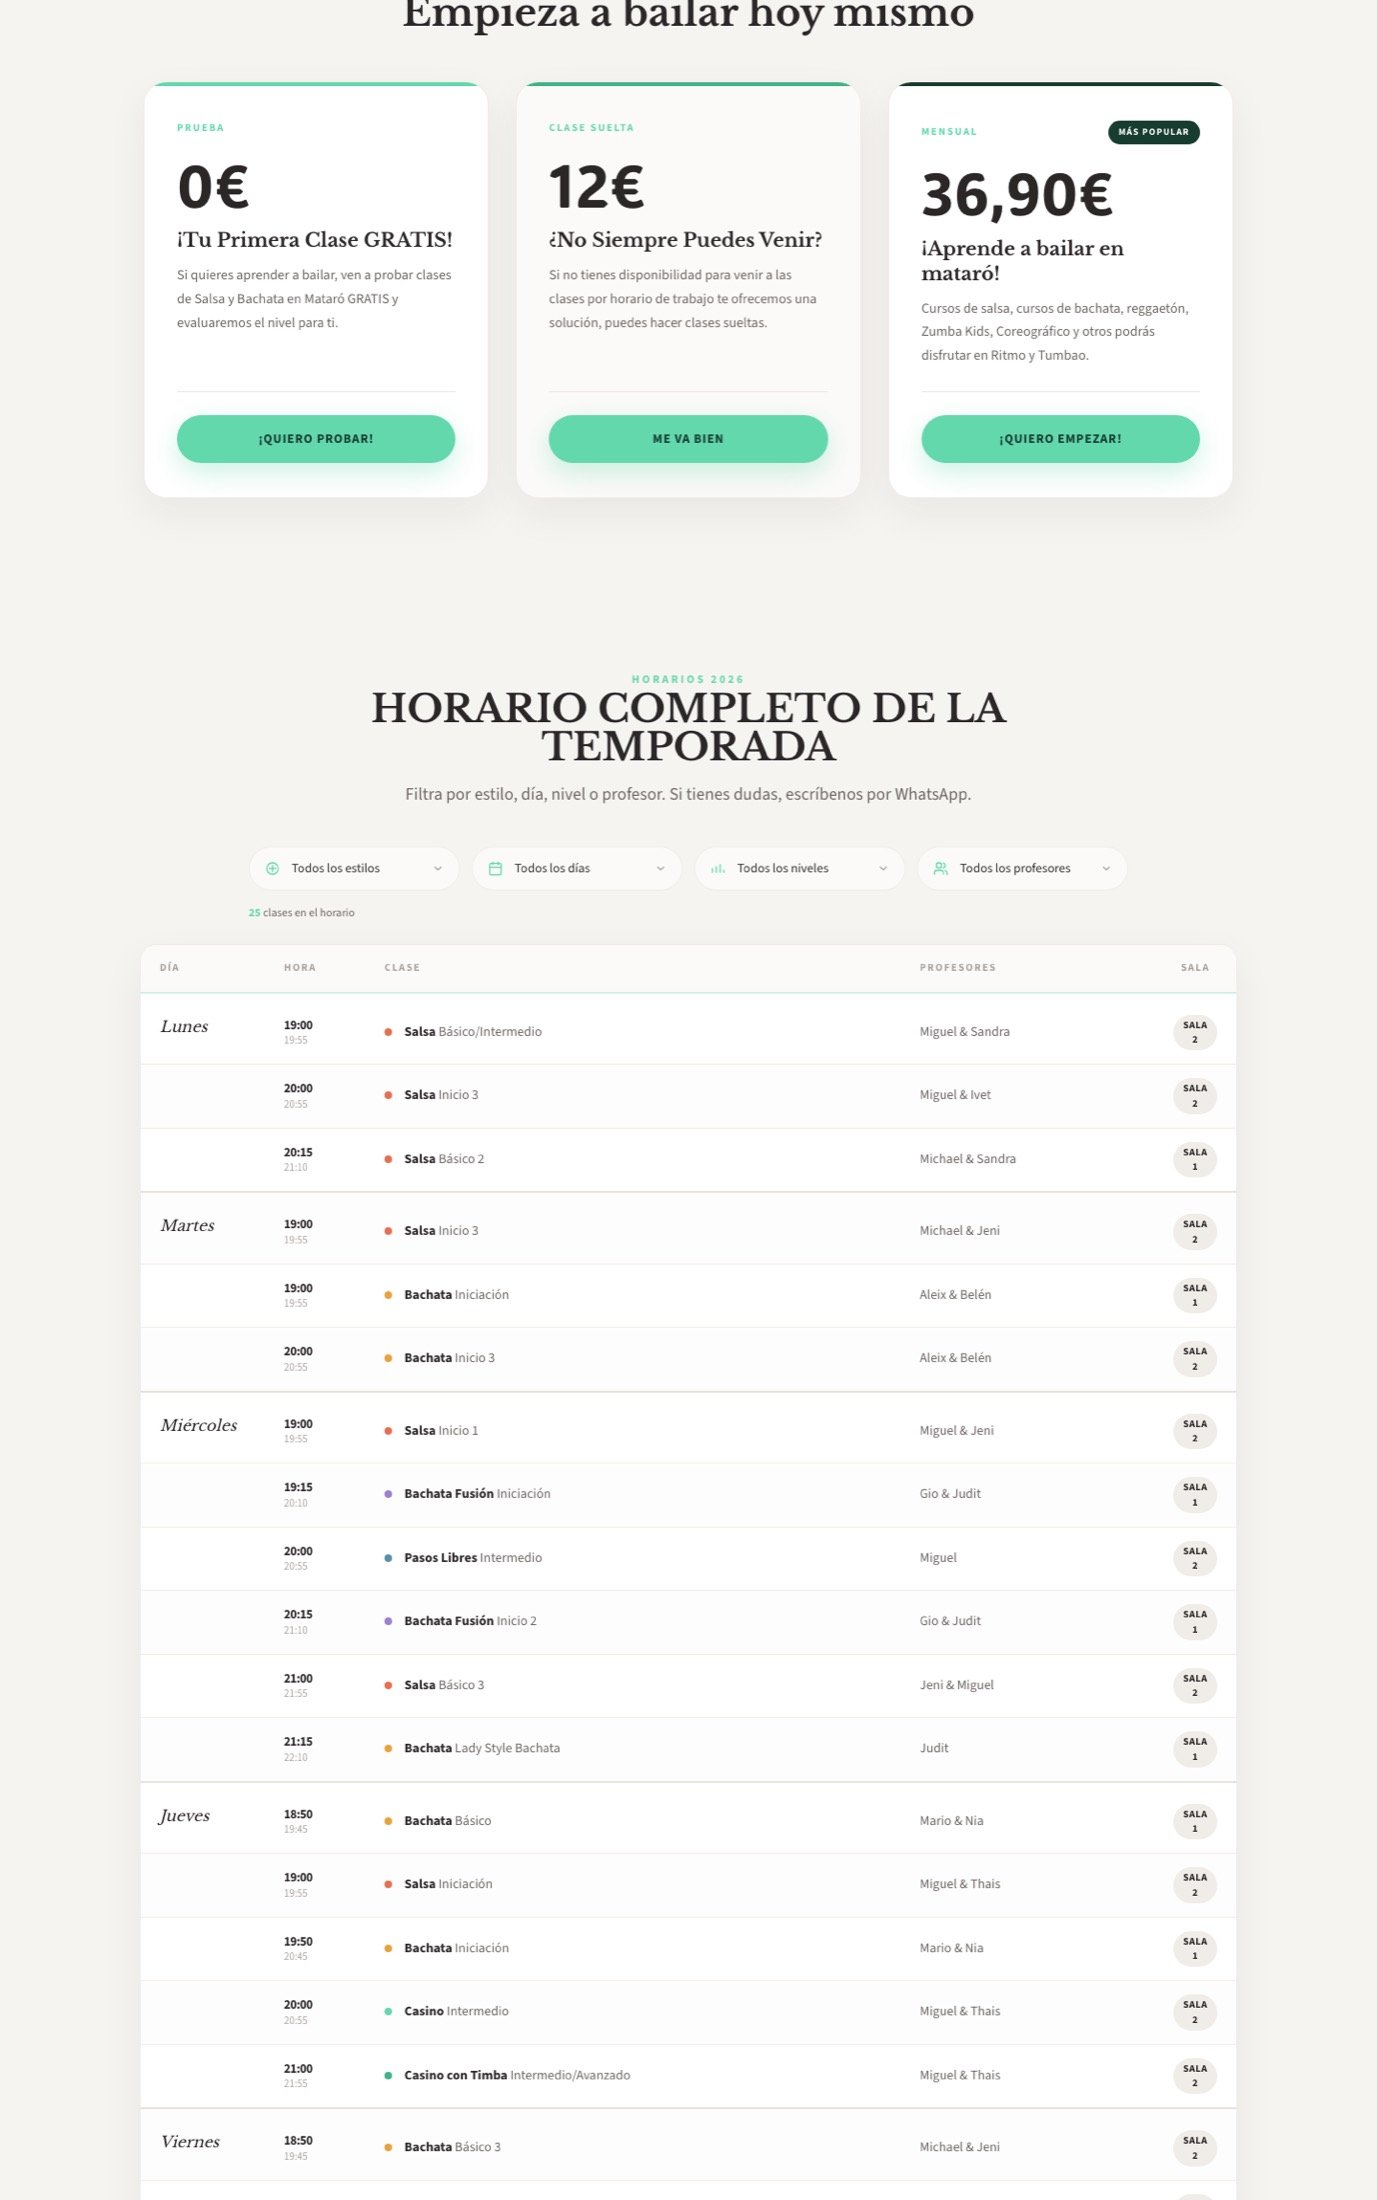
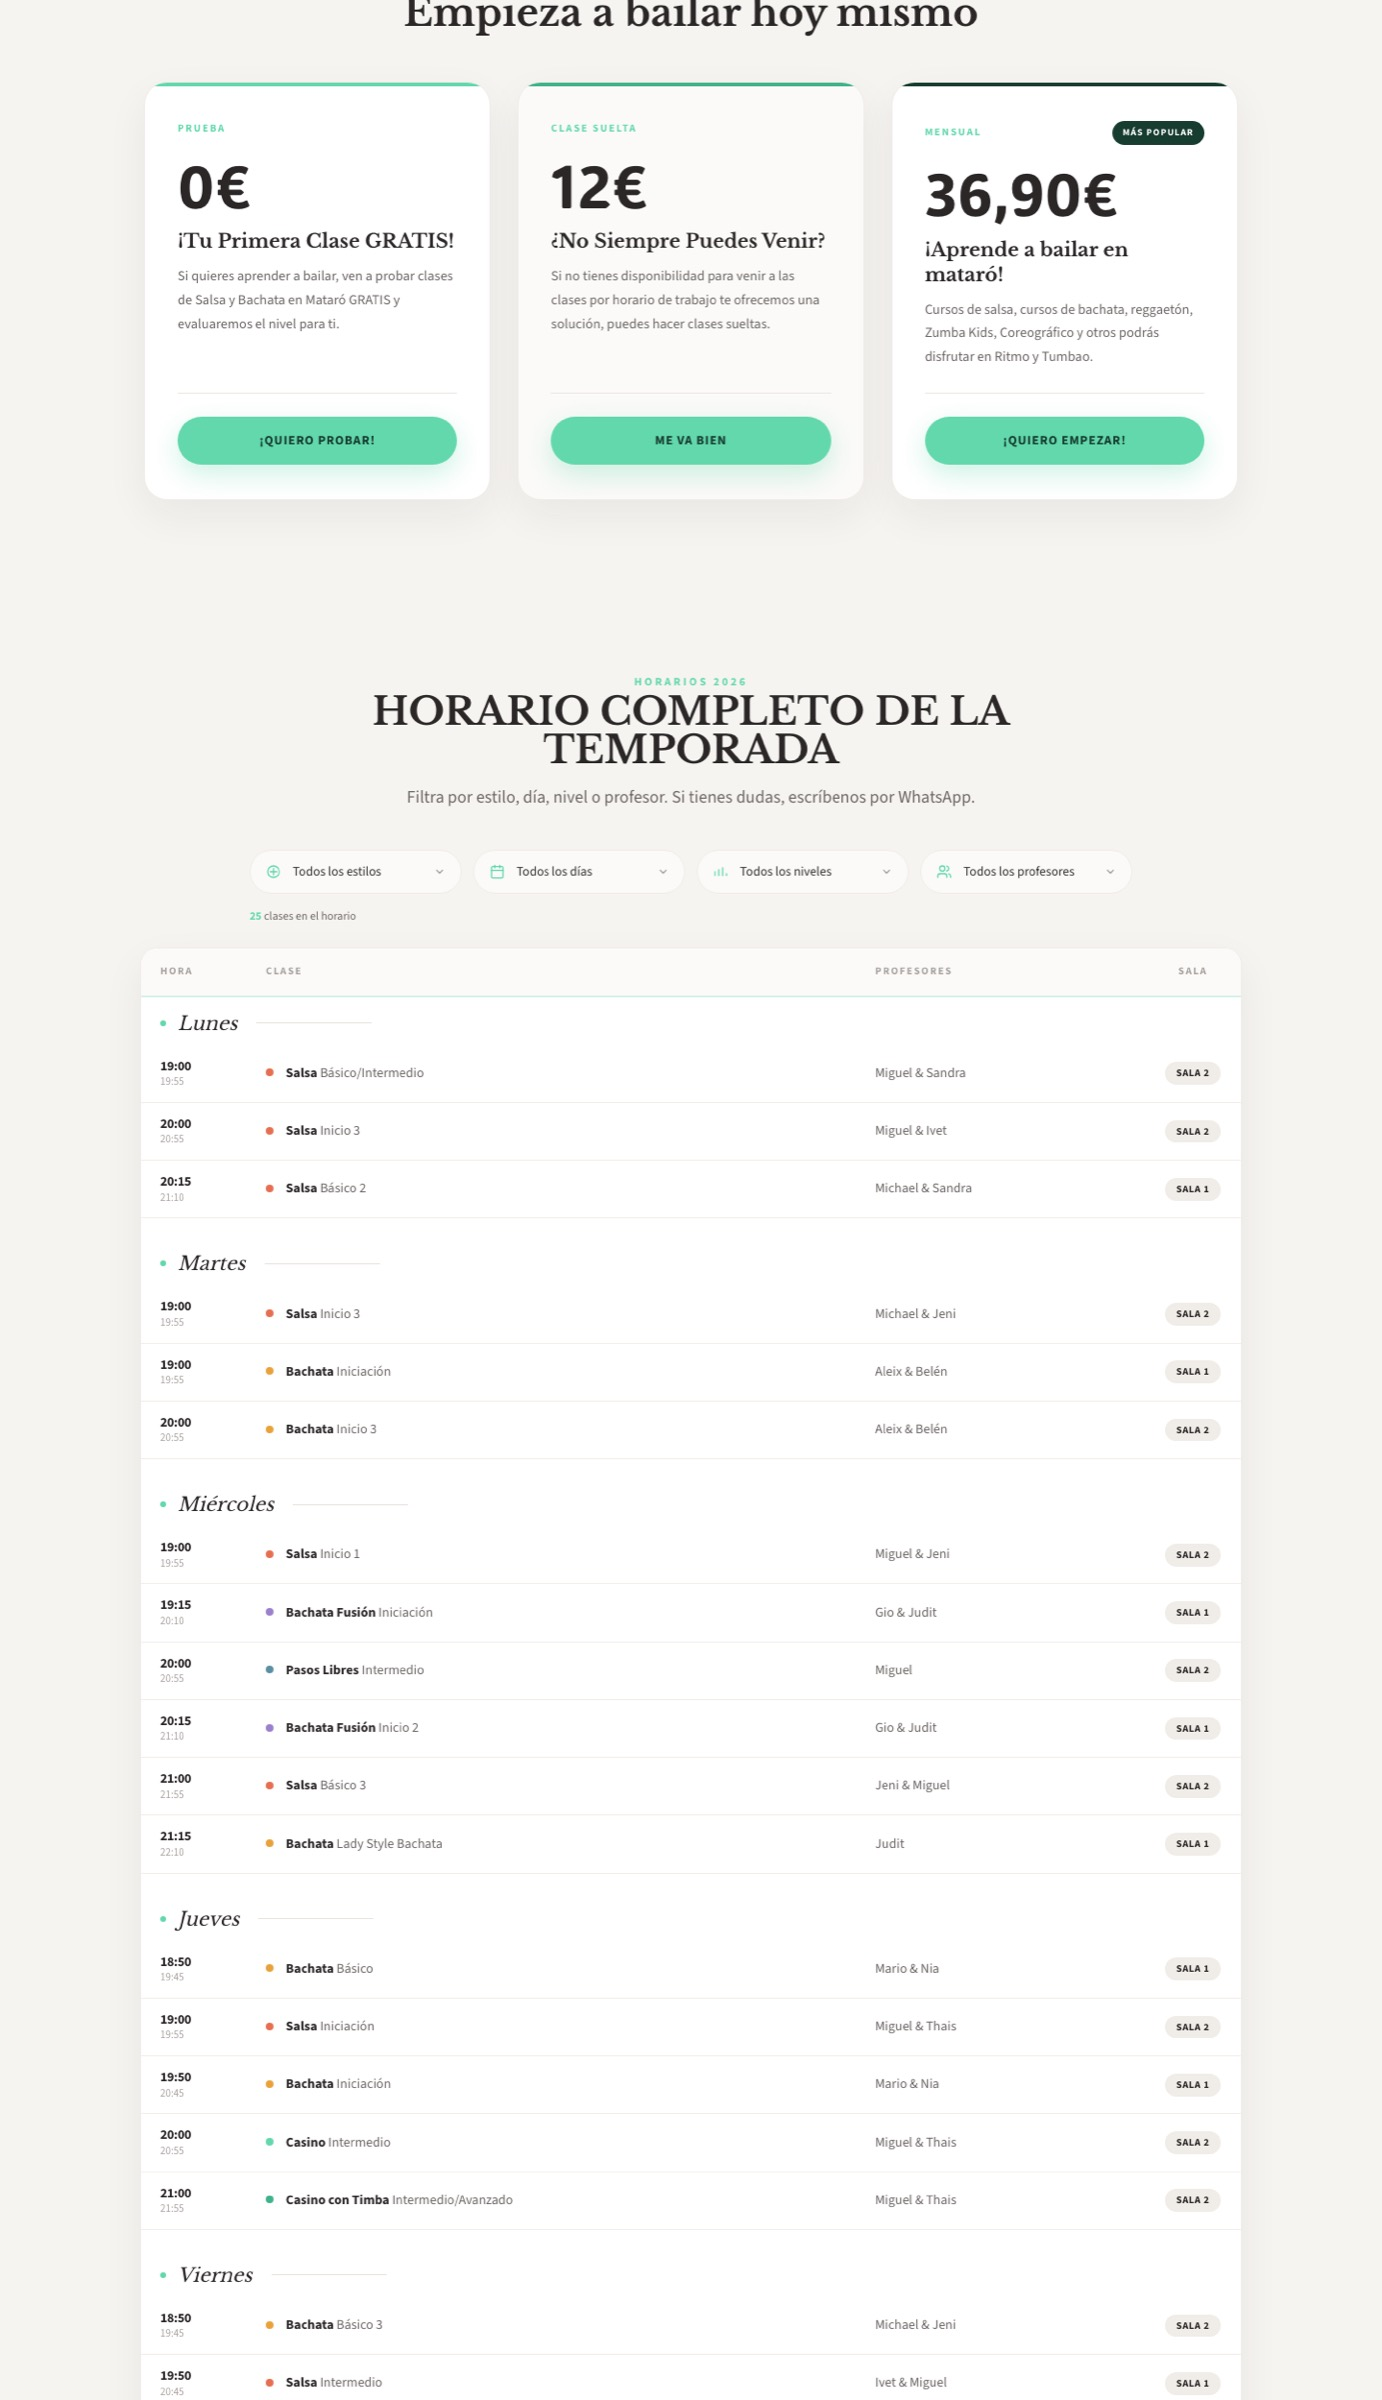
v7.6b — Horario: cabecera de día + badge sala en una línea
Dos fixes pedidos:

1. Sala en una sola línea
   - El badge SALA 1/SALA 2 se rompía en 2 líneas porque la columna
     era muy estrecha. Ahora la columna pasa a 100px, el badge tiene
     whitespace-nowrap y padding 4px/12px.

2. Día como cabecera de grupo
   - El día solo aparecía en la primera fila, lo que confundía al
     hacer scroll o al filtrar.
   - Ahora cada día es una fila completa (colspan=4) con look propio:
     • punto mint a la izquierda
     • nombre del día en serif italic (Lunes, Martes…)
     • línea separadora corta a la derecha
   - Al filtrar, el JS oculta también la cabecera del día si no quedan
     clases visibles en ese día.

diff --git a/src/tailwind.css b/src/tailwind.css
@@ -276,30 +276,40 @@
   .ryt-th {
     @apply font-sans font-bold uppercase text-[11px] tracking-[0.14em] text-ink-mute py-4 px-5 bg-paper-soft border-b-2 border-ryt-mint/30;
   }
+
+  /* Cabecera de grupo (día) */
+  .ryt-tr-grupo {
+    /* fila completa que separa cada día */
+  }
+  .ryt-td-grupo {
+    @apply pt-8 pb-2 px-5 bg-white;
+  }
+  .ryt-grupo-dia {
+    @apply font-serif italic text-[20px] text-ink-heading inline-flex items-center gap-3;
+  }
+  .ryt-grupo-dia::before {
+    content: "";
+    @apply inline-block w-1.5 h-1.5 rounded-full bg-ryt-mint;
+  }
+  .ryt-grupo-dia::after {
+    content: "";
+    @apply inline-block flex-1 h-px bg-[#E8E2DA] min-w-[40px];
+    margin-left: 8px;
+    width: 120px;
+  }
+  /* Primera cabecera sin padding-top extra */
+  .ryt-tabla tbody > .ryt-tr-grupo:first-child .ryt-td-grupo {
+    @apply pt-3;
+  }
+
   .ryt-tr {
     @apply transition-colors duration-150;
-  }
-  .ryt-tr:nth-child(even) {
-    @apply bg-paper-soft/40;
   }
   .ryt-tr:hover {
     @apply bg-ryt-mint-soft/40;
   }
-  /* Separador grueso entre días — animable via JS (.ryt-tr-dia-inicio-active) */
-  .ryt-tr-dia-inicio-active .ryt-td {
-    @apply border-t-2 border-t-[#E8E2DA];
-    padding-top: 22px;
-  }
-  /* Quitar separador en la primera fila visible total */
-  .ryt-tr-dia-inicio-active:first-child .ryt-td,
-  .ryt-tabla tbody > .ryt-tr-dia-inicio-active:not(.is-hidden):first-of-type .ryt-td {
-    /* Las primeras filas mantienen el separador para uniformidad — comentar este selector si quieres quitar */
-  }
   .ryt-td {
     @apply py-3.5 px-5 border-b border-[#F2EDE6] align-middle;
-  }
-  .ryt-td-dia {
-    @apply align-top pt-4;
   }
   .ryt-td-hora {
     @apply leading-tight;
@@ -308,8 +318,16 @@
     @apply inline-block w-2 h-2 rounded-full mr-2.5 align-middle;
     transform: translateY(-1px);
   }
-  /* Fila oculta por filtro */
-  .ryt-tr.is-hidden {
+
+  /* Badge sala — no romper en 2 líneas */
+  .ryt-badge-sala {
+    @apply inline-block bg-paper-alt text-ink-heading rounded-full text-[10.5px] font-bold uppercase tracking-[0.06em] whitespace-nowrap;
+    padding: 4px 12px;
+  }
+
+  /* Fila/cabecera oculta por filtro */
+  .ryt-tr.is-hidden,
+  .ryt-tr-grupo.is-hidden {
     display: none;
   }
   /* Tabular nums para horas */

diff --git a/template-parts/home/horarios.php b/template-parts/home/horarios.php
@@ -172,11 +172,10 @@ $total_clases = count($clases);
                 <table class="ryt-tabla w-full" id="ryt-horario-grid">
                     <thead>
                         <tr>
-                            <th class="ryt-th text-left w-[130px]">Día</th>
-                            <th class="ryt-th text-left w-[105px]">Hora</th>
+                            <th class="ryt-th text-left w-[110px]">Hora</th>
                             <th class="ryt-th text-left">Clase</th>
                             <th class="ryt-th text-left">Profesores</th>
-                            <th class="ryt-th text-center w-[80px]">Sala</th>
+                            <th class="ryt-th text-center w-[100px]">Sala</th>
                         </tr>
                     </thead>
                     <tbody>
@@ -189,19 +188,21 @@ $total_clases = count($clases);
                             $color = ryt_estilo_color($c['estilo']);
                             $profes_slugs = array_map('ryt_slug', preg_split('/\s*&\s*/u', $c['profesores']));
                         ?>
-                            <tr class="ryt-tr<?php echo $primera_fila_del_dia ? ' ryt-tr-dia-inicio' : ''; ?>"
+                            <?php if ($primera_fila_del_dia): ?>
+                            <tr class="ryt-tr-grupo" data-dia-grupo="<?php echo esc_attr(ryt_slug($d_key)); ?>">
+                                <td class="ryt-td-grupo" colspan="4">
+                                    <span class="ryt-grupo-dia"><?php echo esc_html($dias_label[$d_key]); ?></span>
+                                </td>
+                            </tr>
+                            <?php endif; ?>
+                            <tr class="ryt-tr"
                                 data-estilo="<?php echo esc_attr(ryt_slug($c['estilo'])); ?>"
                                 data-nivel="<?php echo esc_attr(ryt_slug($c['nivel'])); ?>"
                                 data-dia="<?php echo esc_attr(ryt_slug($d_key)); ?>"
                                 data-profesores="<?php echo esc_attr(implode(' ', $profes_slugs)); ?>">
 
-                                <td class="ryt-td ryt-td-dia">
-                                    <?php if ($primera_fila_del_dia): ?>
-                                        <span class="font-serif italic text-[16px] text-ink-heading"><?php echo esc_html($dias_label[$d_key]); ?></span>
-                                    <?php endif; ?>
-                                </td>
                                 <td class="ryt-td ryt-td-hora">
-                                    <span class="text-[13px] font-bold tabular-nums tracking-tight text-ink-heading">
+                                    <span class="text-[14px] font-bold tabular-nums tracking-tight text-ink-heading">
                                         <?php echo esc_html($c['hora_inicio']); ?>
                                     </span>
                                     <span class="text-[11px] text-ink-mute block tabular-nums">
@@ -217,7 +218,7 @@ $total_clases = count($clases);
                                     <?php echo esc_html($c['profesores']); ?>
                                 </td>
                                 <td class="ryt-td text-center">
-                                    <span class="inline-block bg-paper-alt text-ink-heading rounded-full px-2.5 py-[3px] text-[10.5px] font-bold uppercase tracking-[0.06em]">
+                                    <span class="ryt-badge-sala">
                                         <?php echo esc_html($c['sala']); ?>
                                     </span>
                                 </td>
@@ -273,30 +274,24 @@ $total_clases = count($clases);
         });
 
         let total = 0;
-        let prevDia = null;
-        const filas = tabla.querySelectorAll('.ryt-tr');
-        // Primero, determinar visibilidad
-        const visibilidad = [];
-        filas.forEach(tr => {
+        // Visibles por día (para esconder la cabecera de grupo si está vacío)
+        const visiblesPorDia = {};
+        tabla.querySelectorAll('.ryt-tr').forEach(tr => {
             const okDia    = !vals.dia      || tr.dataset.dia === vals.dia;
             const okEstilo = !vals.estilo   || tr.dataset.estilo === vals.estilo;
             const okNivel  = !vals.nivel    || tr.dataset.nivel === vals.nivel;
             const okProf   = !vals.profesor || (tr.dataset.profesores || '').split(' ').includes(vals.profesor);
             const ok = okDia && okEstilo && okNivel && okProf;
-            visibilidad.push(ok);
-            if (ok) total++;
-        });
-        // Aplicar visibilidad y recalcular "ryt-tr-dia-inicio"
-        filas.forEach((tr, i) => {
-            tr.classList.toggle('is-hidden', !visibilidad[i]);
-            // Si es visible, comprobar si es la primera visible de su día
-            if (visibilidad[i]) {
-                const esPrimero = (tr.dataset.dia !== prevDia);
-                tr.classList.toggle('ryt-tr-dia-inicio-active', esPrimero);
-                prevDia = tr.dataset.dia;
-            } else {
-                tr.classList.remove('ryt-tr-dia-inicio-active');
+            tr.classList.toggle('is-hidden', !ok);
+            if (ok) {
+                total++;
+                visiblesPorDia[tr.dataset.dia] = (visiblesPorDia[tr.dataset.dia] || 0) + 1;
             }
+        });
+        // Ocultar cabecera de grupo si el día no tiene visibles
+        tabla.querySelectorAll('.ryt-tr-grupo').forEach(g => {
+            const dia = g.dataset.diaGrupo;
+            g.classList.toggle('is-hidden', !visiblesPorDia[dia]);
         });
 
         if (countEl) countEl.textContent = total;